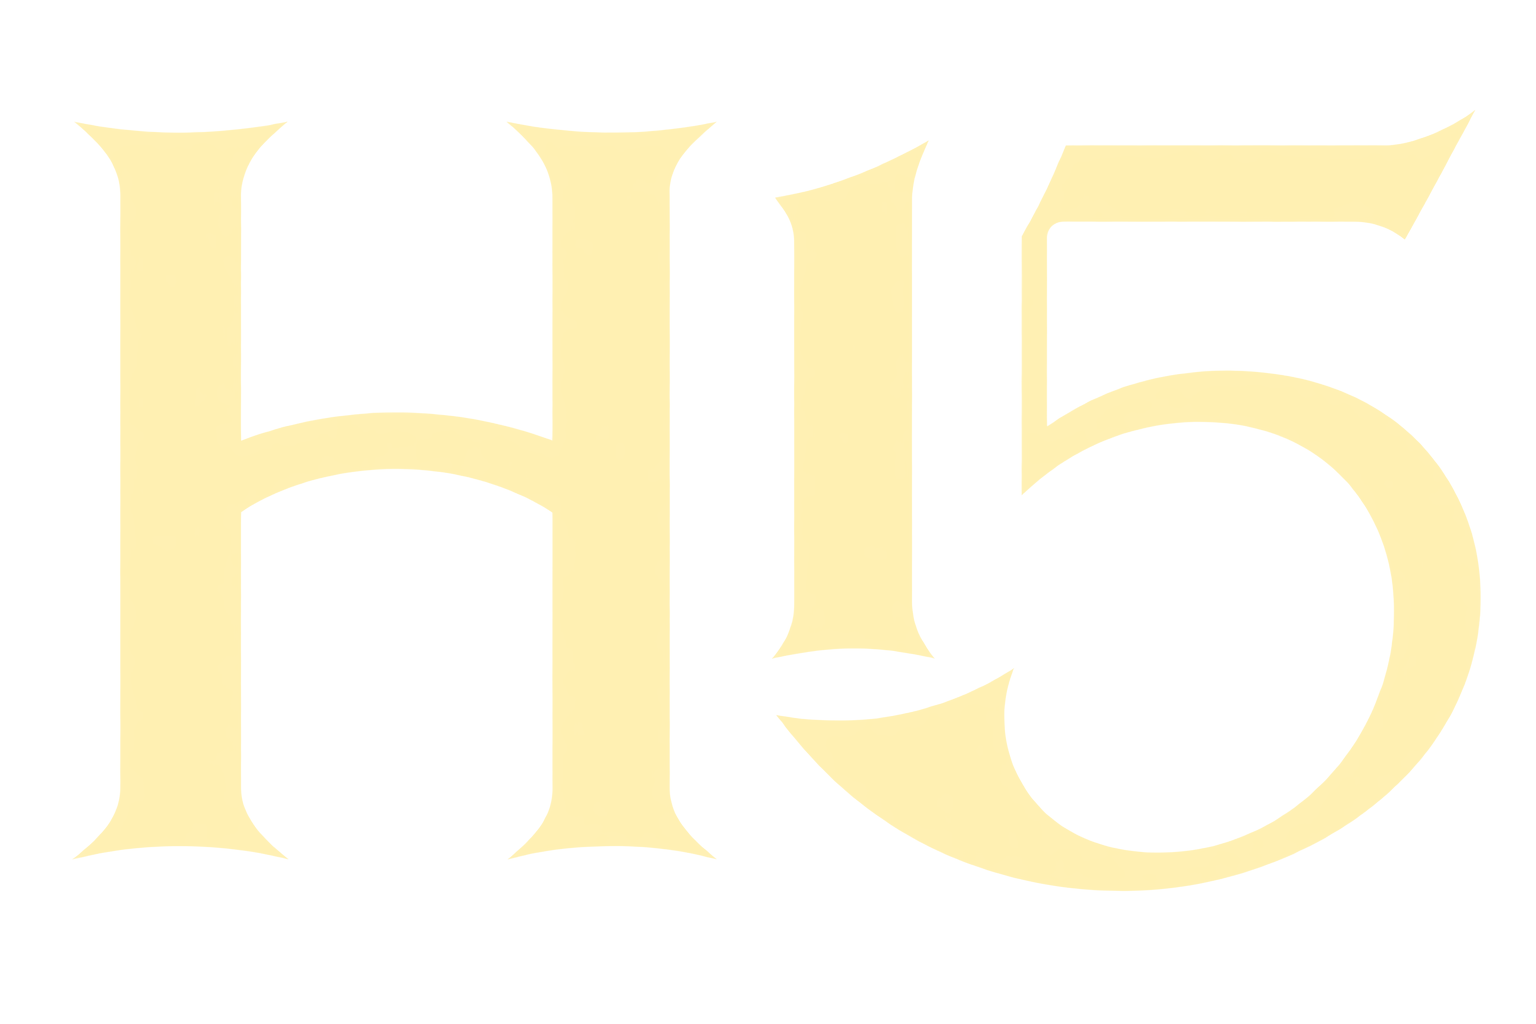
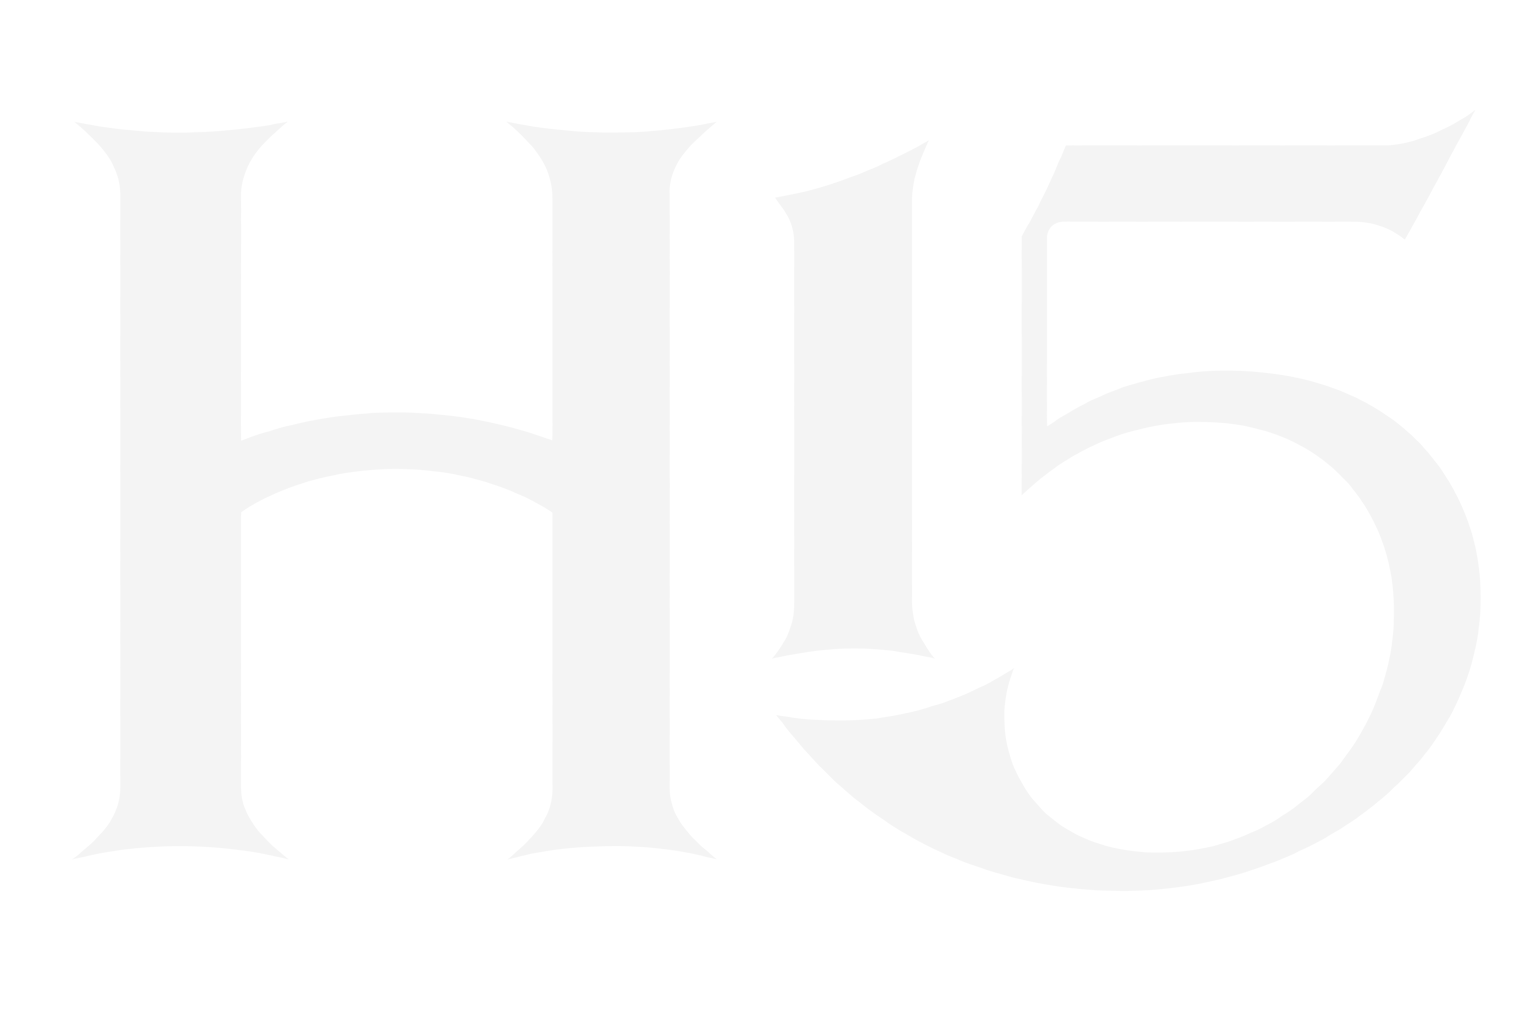
feat(crm): watermark centered on photo, gray version asset

diff --git a/src/components/crm/CrmObjects.tsx b/src/components/crm/CrmObjects.tsx
@@ -175,8 +175,8 @@ export const CrmObjects: FC<{ t: Dict; isAdmin: boolean }> = ({ t, isAdmin }) =>
     e.target.value = ''
   }
 
-  // Водяной знак: рисуем фото на canvas и поверх — watermark.png в левом верхнем
-  // углу с отступом ~3% ширины; размер знака ~28% ширины фото
+  // Водяной знак: рисуем фото на canvas и поверх — watermark.png по центру
+  // фото; размер знака ~28% ширины
   const applyWatermark = (file: File): Promise<Blob | null> => {
     return new Promise((resolve) => {
       const img = new Image()
@@ -194,11 +194,13 @@ export const CrmObjects: FC<{ t: Dict; isAdmin: boolean }> = ({ t, isAdmin }) =>
           ctx.drawImage(img, 0, 0)
           const wmW = Math.round(canvas.width * 0.28)
           const wmH = Math.round(wmW * (wm.naturalHeight / wm.naturalWidth))
-          const margin = Math.round(canvas.width * 0.03)
+          // По центру фото
+          const wmX = Math.round((canvas.width - wmW) / 2)
+          const wmY = Math.round((canvas.height - wmH) / 2)
           // Знак в исходнике очень прозрачный (alpha ~0.1) — рисуем его несколько
           // раз: каждый проход накапливает непрозрачность (1-(1-a)^n)
           for (let pass = 0; pass < 4; pass++) {
-            ctx.drawImage(wm, margin, margin, wmW, wmH)
+            ctx.drawImage(wm, wmX, wmY, wmW, wmH)
           }
           canvas.toBlob(
             (blob) => resolve(blob),
